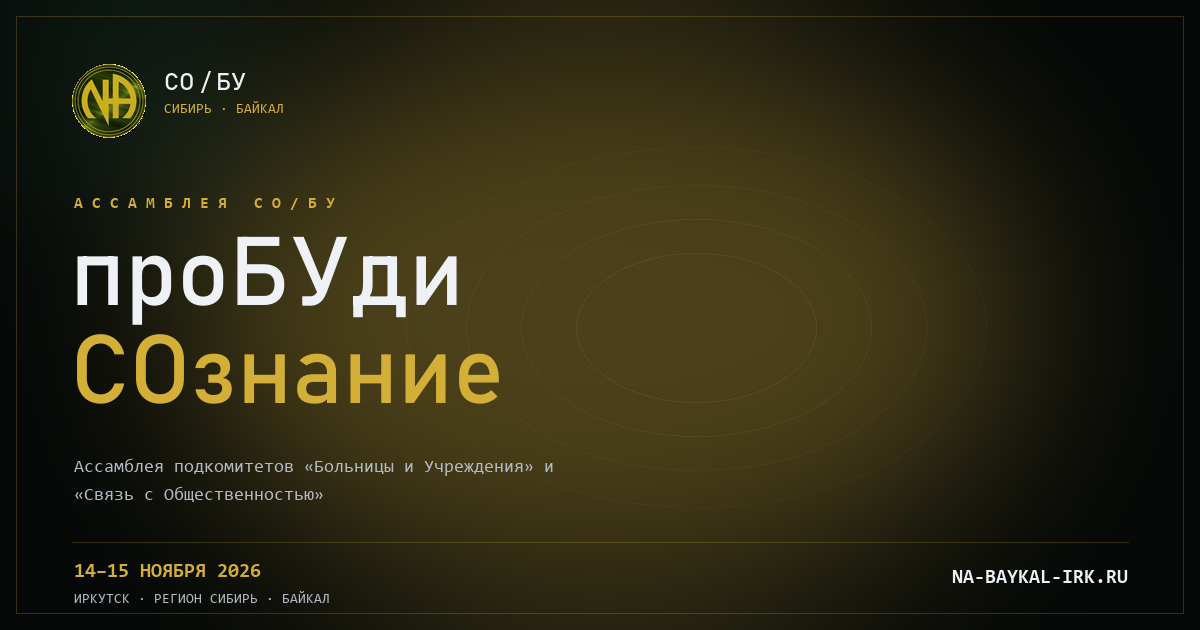
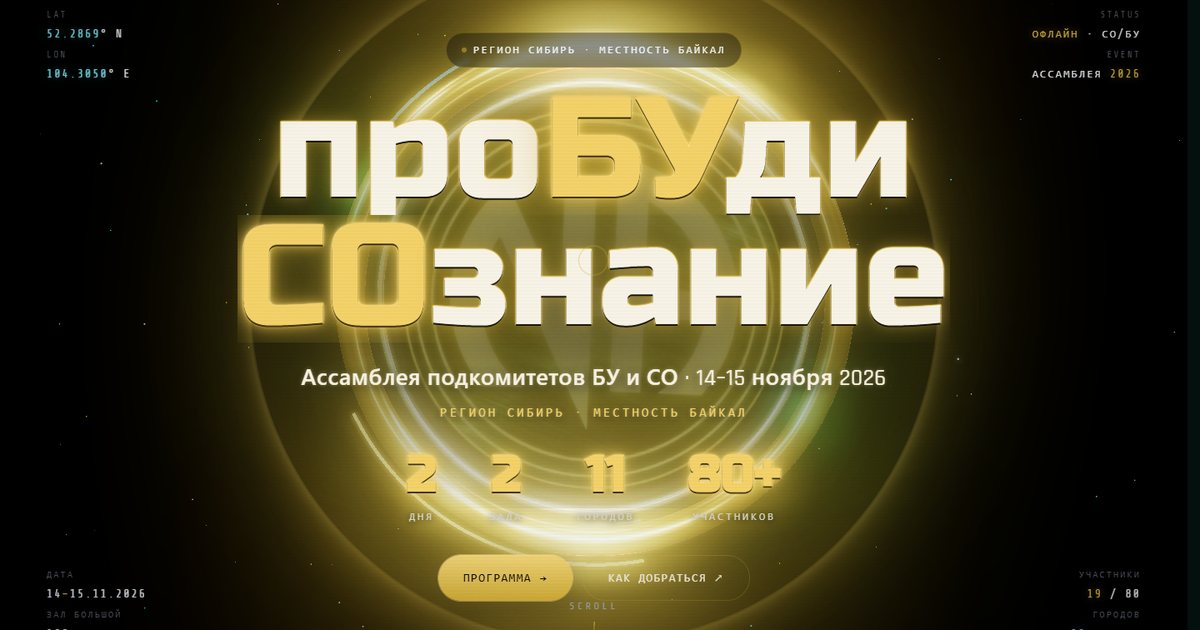
Fix marquee loop math, extend gold shine to all CTAs, real OG screenshot
- Marquee: track had no width, so translateX(-50%) resolved against
  the parent's width instead of the duplicated content, causing the
  ticker to jump back before finishing the phrase. Add width:max-content
  and move the flex gap into each item's own margin so the loop point
  lines up exactly (was off by half the gap). Speed 32s -> 27.2s (~15%
  faster) and a subtle edge mask so the clip looks intentional.
- Extract the "Анонсы" button's gold shimmer (.btn--shine) into shared
  selectors and apply it to every real CTA: Программа, Как добраться,
  header Маршрут, both Построить маршрут buttons, org card contact
  pills (1/2 контакта) and the modal's tel:/Telegram contact links.
  Buttons with their own box-shadow ring (btn--primary) only get the
  moving highlight, not the border/shadow pulse, so their existing
  ring isn't overridden. FAQ toggles, mobile menu and the modal close
  button are untouched. Added :focus-visible and :disabled handling.
- Replace the generated og-image.png with a real screenshot of the
  hero section, cropped to 1200x630, so link previews in Telegram/etc.
  show the actual site instead of the earlier placeholder graphic.

diff --git a/assamblea-so-bu-deploy.html b/assamblea-so-bu-deploy.html
@@ -245,8 +245,18 @@ h1, h2, h3, h4 { font-family: var(--font-display); font-weight: 600; letter-spac
 .btn--ghost { background: transparent; color: var(--fg-0); border: 1px solid var(--line-mid); }
 .btn--ghost:hover { border-color: var(--ice); color: var(--ice); }
 .btn--big { padding: 20px 40px; font-size: 16px; }
-.btn--shine{overflow:hidden;border-color:rgba(212,175,55,.55);animation:btnShineBorder 3.4s ease-in-out infinite}
-.btn--shine::after{content:'';position:absolute;top:0;left:-60%;width:40%;height:100%;background:linear-gradient(115deg,transparent,rgba(255,255,255,.55) 45%,rgba(212,175,55,.6) 62%,transparent);transform:skewX(-20deg);mix-blend-mode:screen;pointer-events:none;animation:btnShineSweep 3.4s ease-in-out infinite}
+/* ---------- GOLD SHINE: shared shimmer, extracted from "Анонсы" (.btn--shine) ---------- */
+.gold-shine,.gold-shine-ring,.btn--shine,.btn--ghost,.header__cta,.org-modal__contact,.org__card .org__tg,.btn--primary{position:relative;overflow:hidden}
+.gold-shine::after,.btn--shine::after,.btn--ghost::after,.header__cta::after,.org-modal__contact::after,.org__card .org__tg::after,.btn--primary::after{
+  content:'';position:absolute;top:0;left:-60%;width:40%;height:100%;
+  background:linear-gradient(115deg,transparent,rgba(255,255,255,.55) 45%,rgba(212,175,55,.6) 62%,transparent);
+  transform:skewX(-20deg);mix-blend-mode:screen;pointer-events:none;border-radius:inherit;
+  animation:btnShineSweep 3.4s ease-in-out infinite}
+.gold-shine-ring,.btn--shine,.btn--ghost,.header__cta,.org-modal__contact,.org__card .org__tg{
+  border-color:rgba(212,175,55,.55);animation:btnShineBorder 3.4s ease-in-out infinite}
+.btn--primary:focus-visible,.btn--ghost:focus-visible,.header__cta:focus-visible,.org-modal__contact:focus-visible{outline:2px solid rgba(212,175,55,.8);outline-offset:2px}
+.btn--primary:disabled,.btn--ghost:disabled,.header__cta:disabled{animation:none;opacity:.5;cursor:not-allowed}
+.btn--primary:disabled::after,.btn--ghost:disabled::after,.header__cta:disabled::after{content:none}
 @keyframes btnShineBorder{0%,100%{border-color:rgba(212,175,55,.55);box-shadow:0 0 16px rgba(212,175,55,.22)}50%{border-color:rgba(230,228,222,.6);box-shadow:0 0 20px rgba(230,228,222,.26)}}
 @keyframes btnShineSweep{0%{left:-60%}55%{left:130%}100%{left:130%}}
 
@@ -395,9 +405,9 @@ h1, h2, h3, h4 { font-family: var(--font-display); font-weight: 600; letter-spac
 /* ============================================================
    MARQUEE
    ============================================================ */
-.marquee { padding: 28px 0; border-top: 1px solid var(--line-soft); border-bottom: 1px solid var(--line-soft); overflow: hidden; }
-.marquee__track { display: flex; gap: 32px; white-space: nowrap; animation: marquee 32s linear infinite; }
-.marquee__item { font-family: var(--font-display); font-size: clamp(28px, 3.6vw, 48px); font-weight: 500; letter-spacing: -0.01em; color: var(--fg-0); display: inline-flex; align-items: center; gap: 32px; }
+.marquee { padding: 28px 0; border-top: 1px solid var(--line-soft); border-bottom: 1px solid var(--line-soft); overflow: hidden; -webkit-mask-image: linear-gradient(90deg, transparent 0, #000 56px, #000 calc(100% - 56px), transparent 100%); mask-image: linear-gradient(90deg, transparent 0, #000 56px, #000 calc(100% - 56px), transparent 100%); }
+.marquee__track { display: flex; width: max-content; white-space: nowrap; animation: marquee 27.2s linear infinite; }
+.marquee__item { font-family: var(--font-display); font-size: clamp(28px, 3.6vw, 48px); font-weight: 500; letter-spacing: -0.01em; color: var(--fg-0); display: inline-flex; align-items: center; gap: 32px; margin-right: 32px; }
 .marquee__item .dot { color: var(--fire); }
 @keyframes marquee { from { transform: translateX(0); } to { transform: translateX(-50%); } }
 

diff --git a/index.html b/index.html
@@ -245,8 +245,18 @@ h1, h2, h3, h4 { font-family: var(--font-display); font-weight: 600; letter-spac
 .btn--ghost { background: transparent; color: var(--fg-0); border: 1px solid var(--line-mid); }
 .btn--ghost:hover { border-color: var(--ice); color: var(--ice); }
 .btn--big { padding: 20px 40px; font-size: 16px; }
-.btn--shine{overflow:hidden;border-color:rgba(212,175,55,.55);animation:btnShineBorder 3.4s ease-in-out infinite}
-.btn--shine::after{content:'';position:absolute;top:0;left:-60%;width:40%;height:100%;background:linear-gradient(115deg,transparent,rgba(255,255,255,.55) 45%,rgba(212,175,55,.6) 62%,transparent);transform:skewX(-20deg);mix-blend-mode:screen;pointer-events:none;animation:btnShineSweep 3.4s ease-in-out infinite}
+/* ---------- GOLD SHINE: shared shimmer, extracted from "Анонсы" (.btn--shine) ---------- */
+.gold-shine,.gold-shine-ring,.btn--shine,.btn--ghost,.header__cta,.org-modal__contact,.org__card .org__tg,.btn--primary{position:relative;overflow:hidden}
+.gold-shine::after,.btn--shine::after,.btn--ghost::after,.header__cta::after,.org-modal__contact::after,.org__card .org__tg::after,.btn--primary::after{
+  content:'';position:absolute;top:0;left:-60%;width:40%;height:100%;
+  background:linear-gradient(115deg,transparent,rgba(255,255,255,.55) 45%,rgba(212,175,55,.6) 62%,transparent);
+  transform:skewX(-20deg);mix-blend-mode:screen;pointer-events:none;border-radius:inherit;
+  animation:btnShineSweep 3.4s ease-in-out infinite}
+.gold-shine-ring,.btn--shine,.btn--ghost,.header__cta,.org-modal__contact,.org__card .org__tg{
+  border-color:rgba(212,175,55,.55);animation:btnShineBorder 3.4s ease-in-out infinite}
+.btn--primary:focus-visible,.btn--ghost:focus-visible,.header__cta:focus-visible,.org-modal__contact:focus-visible{outline:2px solid rgba(212,175,55,.8);outline-offset:2px}
+.btn--primary:disabled,.btn--ghost:disabled,.header__cta:disabled{animation:none;opacity:.5;cursor:not-allowed}
+.btn--primary:disabled::after,.btn--ghost:disabled::after,.header__cta:disabled::after{content:none}
 @keyframes btnShineBorder{0%,100%{border-color:rgba(212,175,55,.55);box-shadow:0 0 16px rgba(212,175,55,.22)}50%{border-color:rgba(230,228,222,.6);box-shadow:0 0 20px rgba(230,228,222,.26)}}
 @keyframes btnShineSweep{0%{left:-60%}55%{left:130%}100%{left:130%}}
 
@@ -395,9 +405,9 @@ h1, h2, h3, h4 { font-family: var(--font-display); font-weight: 600; letter-spac
 /* ============================================================
    MARQUEE
    ============================================================ */
-.marquee { padding: 28px 0; border-top: 1px solid var(--line-soft); border-bottom: 1px solid var(--line-soft); overflow: hidden; }
-.marquee__track { display: flex; gap: 32px; white-space: nowrap; animation: marquee 32s linear infinite; }
-.marquee__item { font-family: var(--font-display); font-size: clamp(28px, 3.6vw, 48px); font-weight: 500; letter-spacing: -0.01em; color: var(--fg-0); display: inline-flex; align-items: center; gap: 32px; }
+.marquee { padding: 28px 0; border-top: 1px solid var(--line-soft); border-bottom: 1px solid var(--line-soft); overflow: hidden; -webkit-mask-image: linear-gradient(90deg, transparent 0, #000 56px, #000 calc(100% - 56px), transparent 100%); mask-image: linear-gradient(90deg, transparent 0, #000 56px, #000 calc(100% - 56px), transparent 100%); }
+.marquee__track { display: flex; width: max-content; white-space: nowrap; animation: marquee 27.2s linear infinite; }
+.marquee__item { font-family: var(--font-display); font-size: clamp(28px, 3.6vw, 48px); font-weight: 500; letter-spacing: -0.01em; color: var(--fg-0); display: inline-flex; align-items: center; gap: 32px; margin-right: 32px; }
 .marquee__item .dot { color: var(--fire); }
 @keyframes marquee { from { transform: translateX(0); } to { transform: translateX(-50%); } }
 
